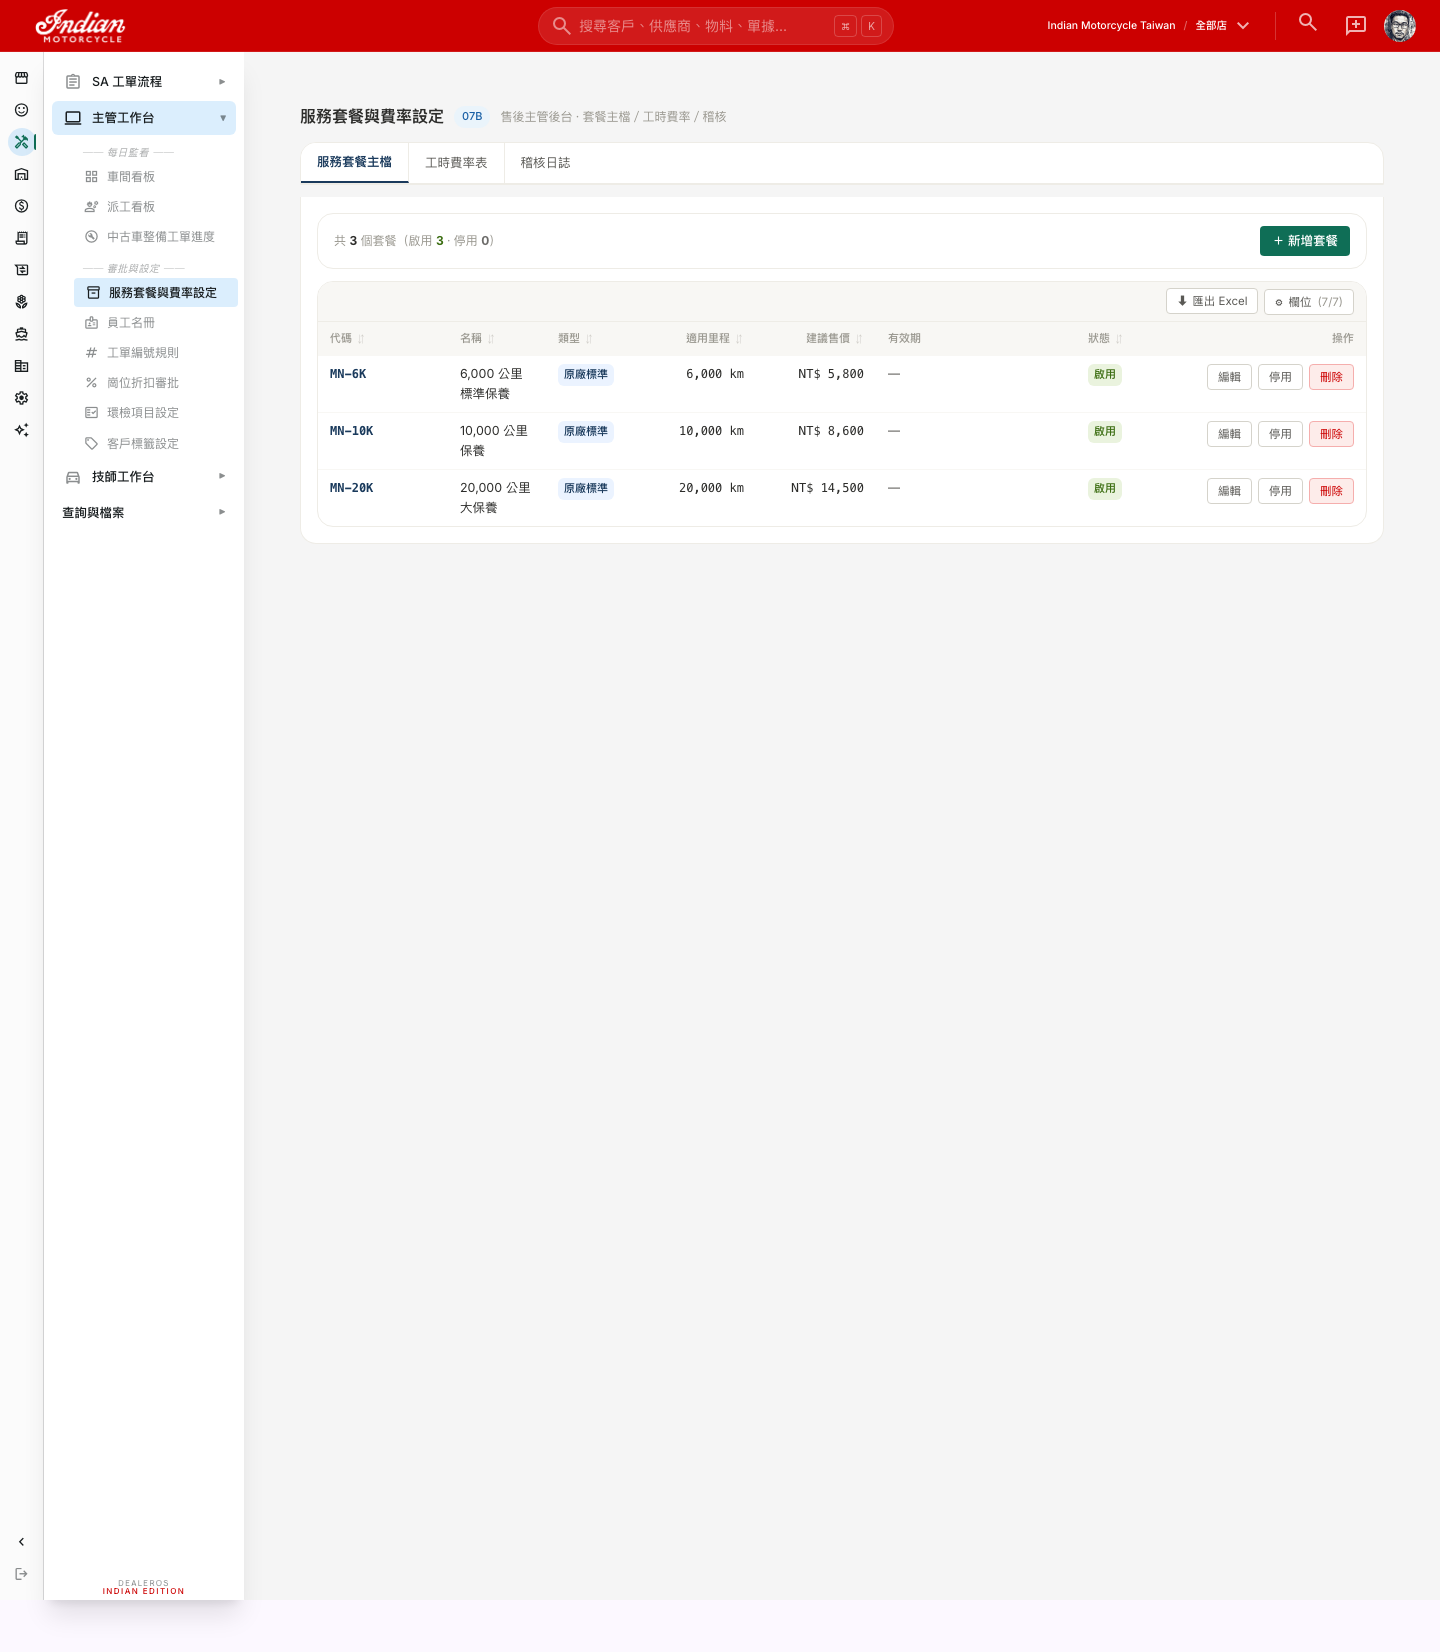
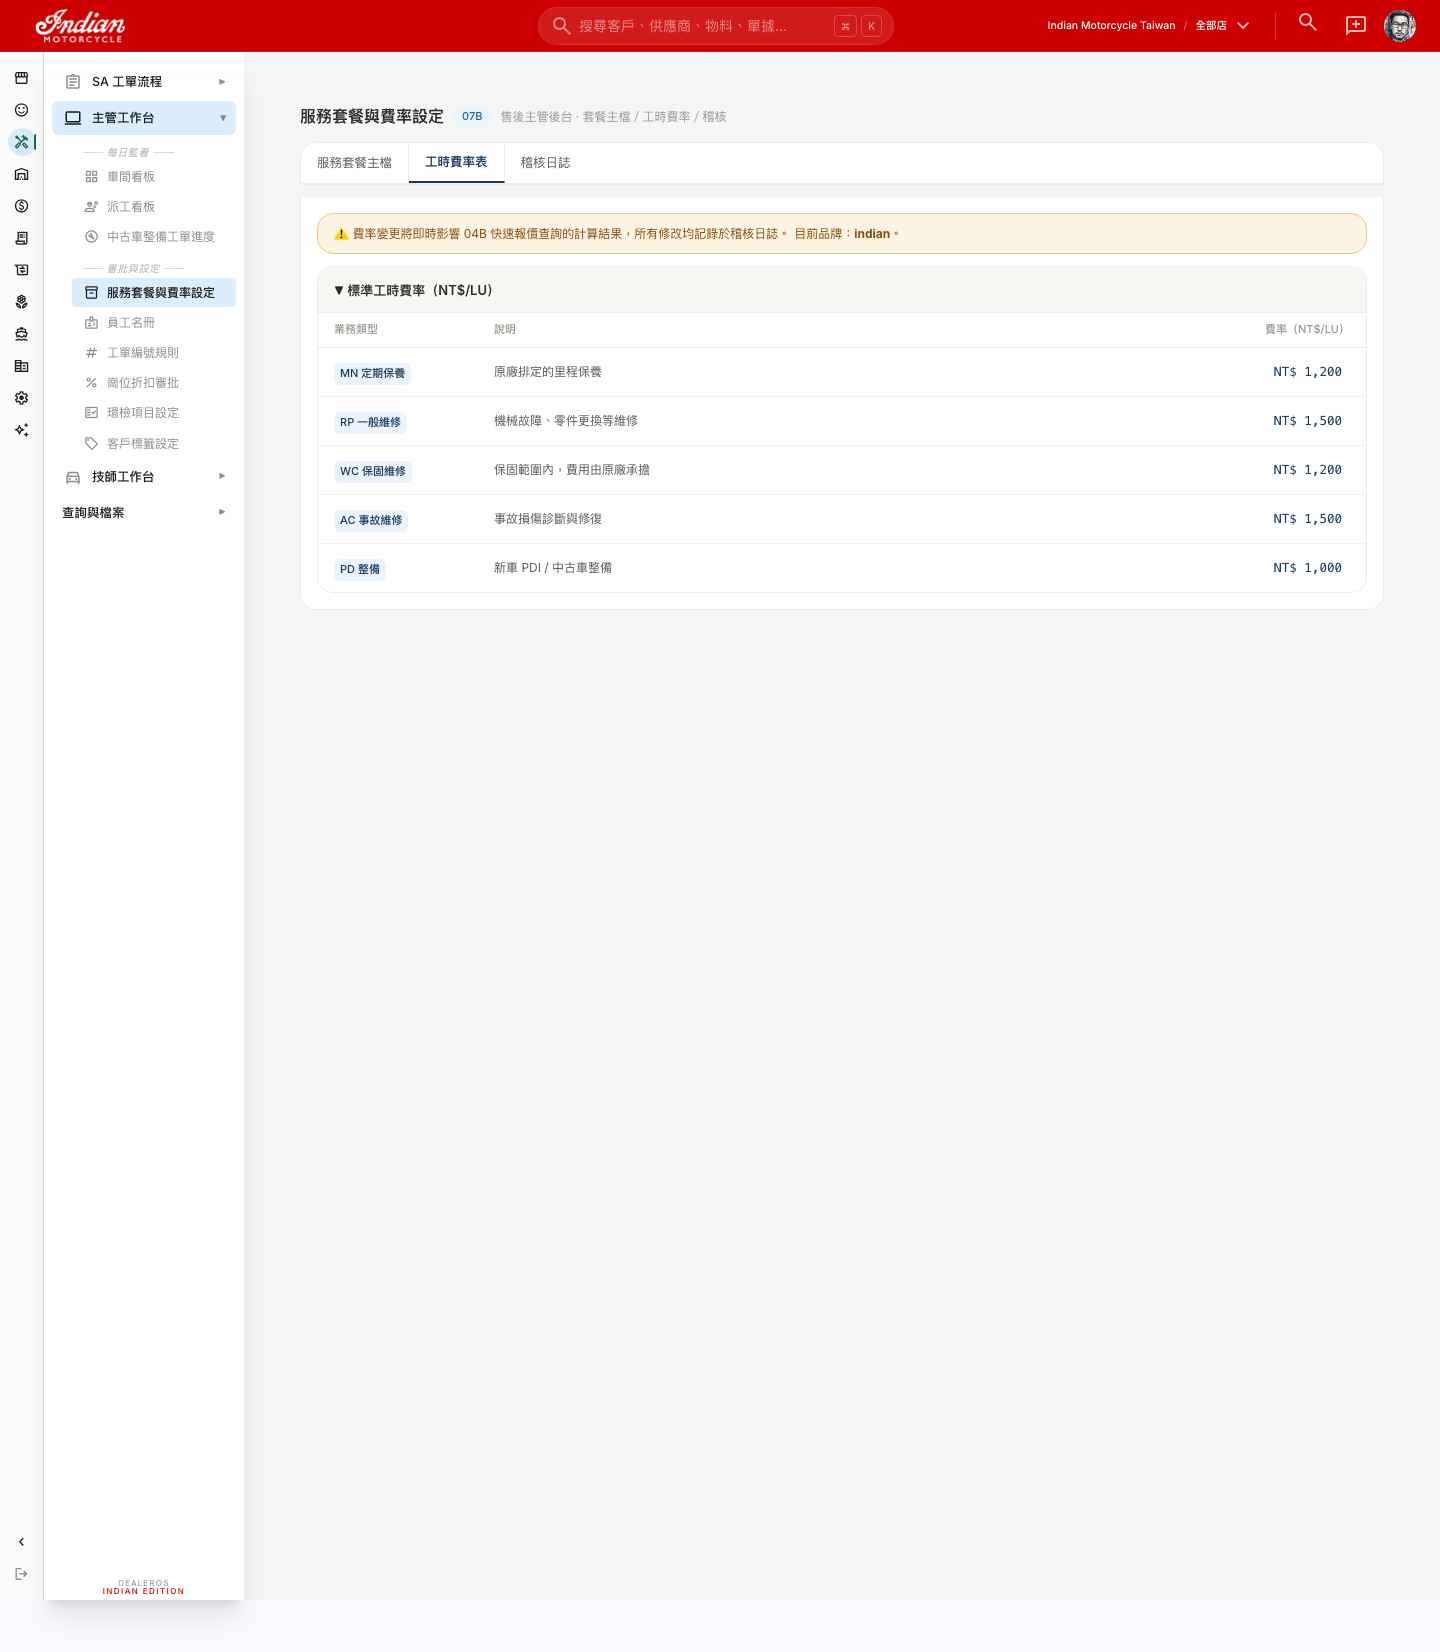
docs(russell): 回填 5 題回覆文件證據 + 重截 P1/P3b/P3c（DOM 複驗殘留歸零）

diff --git a/docs/20260613/04_DealerOS_回覆Russell_2026-06-13.md b/docs/20260613/04_DealerOS_回覆Russell_2026-06-13.md
@@ -2,7 +2,8 @@
 
 **日期：2026-06-13　｜　Partner & AI Agent → Russell Hung**
 **對應：`01_DealerOS_回覆Partner_2026-06-11.md`**
-**修補 commit：`8758bde`（已部署至正式站 https://dealeros.zeabur.app/）**
+**修補 commit：`8758bde` + `8d236a3`（已部署至正式站 https://dealeros.zeabur.app/）**
+**所有截圖均對部署後的正式站、以 Indian / DUCATI 帳號實拍，並以 DOM 可見性程式複驗殘留歸零**
 
 ---
 
@@ -24,15 +25,20 @@
    - 原本印 `完成{warrantySystem}保固登記` → 對 Indian 會印「完成 **Polaris** 保固登記」（Polaris 是母廠系統碼，海德生員工不認得）
    - 改為讀 `brandName`（`warrantyRegBrand`）→ 現在印「**完成 Indian Motorcycle 保固登記**」，正中你的規格要求
 2. **清除假資料**：Indian 有一筆交車單 `王大明 / Monster SP`（保固頁就是讀這筆才露出你截到的假資料）→ 已中性化為 `陳其邁 / Indian Scout Bobber`
+3. **殼層補刀**（`8d236a3`）：第一輪截圖後我們用 DOM 可見性程式複驗，又揪出兩處非品牌驅動的硬編碼殘留 → 已清：
+   - 交車流程步驟標題 `delivery-frame.tsx:60`：「DUCATI Warranty Terms — 交車登記表」→「保固條款 — 交車登記表」
+   - 確認事項清單 `delivery-constants.ts`：「已說明 www.ducati.com…」→「已說明原廠官方網站…」
 
 **截圖（Indian 帳號 · 正式站）**：`russell-evidence/P1_保固簽署頁_indian.png`
-- ✅ 標題不含「DUCATI」（顯示「Indian Motorcycle 保固條款」）
+- ✅ 標題顯示「**Indian Motorcycle 保固條款**」，不含「DUCATI」
 - ✅ 內文不含「Desmo 服務」「非 DUCATI 官方授權」
-- ✅ 顯示「交車後 10 天內完成 Indian Motorcycle 保固登記」提醒（`warranty_reg_days=10`）
+- ✅ 顯示「請於交車後 10 天內完成 **Indian Motorcycle** 保固登記」提醒（`warranty_reg_days=10`）
 - ✅ 無「王大明 / Monster SP」假資料
-- 程式驗證：DUCATI/Desmo/王大明/Monster 全文命中 = **[EV_P1_DUCATI]**；Indian Motorcycle 命中 = **[EV_P1_INDIAN]**
+- **DOM 可見性程式複驗：DUCATI/Desmo/王大明/Monster 可見文字節點 = 0**
 
-**改動行**：`warranty-sign-view.tsx:29,35,199`、`warranty-sign/page.tsx:31`
+**改動行**：`warranty-sign-view.tsx:29,35,199`、`warranty-sign/page.tsx:31`、`delivery-frame.tsx:58-60`、`delivery-constants.ts:199`
+
+> 誠實補充：交車流程更深層的 PDI / 36 項點交 checklist（DQS、MyDucati、Ducati Connect 等 DUCATI 工程專屬系統）仍含 DUCATI demo 內容；這些不在保固頁（RS05）上、屬另一輪 brand-aware 重構範圍，已列入後續。本題要求的保固簽署頁已徹底中性化。
 
 ---
 
@@ -79,7 +85,7 @@
 ### ① 試駕車款下拉（截圖 `P3a_試駕車款下拉_indian.png`）
 
 試乘表單（`test-rides-form.tsx:29,422-440`）已改吃 `vehicle_models`（依 active brand 過濾）。Indian 的 `vehicle_models` 只有 Chief / FTR / Scout，**DB 層就不存在 Ducati 車款**。
-- 程式抓取下拉實際選項 = **[EV_P3a_OPTIONS]**
+- 程式抓取下拉實際選項 = **`Chief Vintage` / `FTR Sport` / `Scout Bobber`**（全 Indian，無 Panigale/Monster）
 
 ### ② 庫存品項清單（截圖 `P3b_庫存品項_indian.png`）
 
@@ -93,12 +99,13 @@
 | E2E-SVC-021 | Desmo 汽門間隙校正 | 氣門間隙校正 |
 | OEM-ENG-003 | Desmodromic 進氣搖臂 | 進氣搖臂 |
 
-- 程式驗證：Indian 品項全文 Ducati/Panigale/Monster/Desmo 命中 = **[EV_P3b]**（目標 0）
+> 第一輪只清了 `name` 欄，DOM 複驗又抓到 `name_en` / `spec_description` 仍殘（Ducati Helmet Replica / Ducati 紅塗裝 / Monster 系列通用 / desmo 系統 / Panigale 適用），`8d236a3` 已連同清除。
+- **DOM 可見性程式複驗：Indian 品項清單 Ducati/Panigale/Monster/Desmo 可見文字 = 0**
 
 ### ③ 07B 工時費率表 Tab B（截圖 `P3c_工時費率表_indian.png`）
 
-費率表元件（`service-packages-board.tsx:518`）對 `has_desmo=false`（Indian）的品牌**會濾掉 Desmo Service 列**。Indian 帳號的 Tab B 不顯示任何 Desmo 字樣。
-- 程式驗證：Desmo 命中 = **[EV_P3c]**（目標 0）
+費率表元件（`service-packages-board.tsx:518`）對 `has_desmo=false`（Indian）的品牌**會濾掉 Desmo Service 列**。Indian 帳號的「工時費率表」Tab 只有 5 列：MN 定保 / RP 一般維修 / WC 保固維修 / AC 事故維修 / PD 整備，**無 Desmo 列**。
+- **DOM 可見性程式複驗：工時費率表 Desmo 可見文字 = 0**
 
 ---
 
@@ -106,7 +113,7 @@
 
 **三點全部確認 OK：**
 
-1. **DUCATI 帳號看到的是 DUCATI 資料**：ducati brand 有自有業務資料（30 客戶 / 15 車款 / 30 品項），RLS 按品牌隔離。截圖 `P4b_ducati業務資料_車型.png` 顯示車型主檔為 Panigale / Monster / Streetfighter 等 DUCATI 車款（命中 = **[EV_P4b]**），非 Indian 資料。
+1. **DUCATI 帳號看到的是 DUCATI 資料**：ducati brand 有自有業務資料（30 客戶 / 15 車款 / 30 品項），RLS 按品牌隔離。截圖 `P4b_ducati業務資料_車型.png` 顯示車型主檔為 Panigale / Monster / Streetfighter 等 DUCATI 車款（程式命中 24 處，**這是正確的——DUCATI 帳號本就該看到自己的車款**），非 Indian 資料。
 2. **nav_nodes 正確顯示 DUCATI 功能**：ducati 有 298 個 nav 節點 / 19 個一級模組（**非空**）。截圖 `P4a_ducati首頁目錄.png`。
 3. **RLS 對 DUCATI 生效**：6/4 RLS hardening 已對全 205 張表套 `user_has_brand(brand_id)` 政策（advisor 14→0），品牌隔離對 ducati 與 indian 對稱生效。
 
@@ -139,10 +146,10 @@
 
 ## 附：本次所有改動
 
-- **commit**：`8758bde`（tsc + eslint 全綠，已部署正式站）
-- **程式碼**：保固頁 ×2、org 架構 ×6（brand-config / org-settings / org-structure / action / page / board）
-- **資料庫**（已套正式站 Supabase）：brand_config.metadata.org_mode（indian=3/ducati=4）、5 品項改名、6 交車單中性化
+- **commit**：`8758bde`（org 架構 + 首輪中性化）+ `8d236a3`（殼層補刀）；皆 tsc + eslint 全綠、已部署正式站
+- **程式碼**：保固頁 ×2、org 架構 ×6（brand-config / org-settings / org-structure / action / page / board）、交車殼層 ×2（delivery-frame / delivery-constants）
+- **資料庫**（已套正式站 Supabase）：brand_config.metadata.org_mode（indian=3/ducati=4）、items 全文字欄中性化（name / name_en / spec_description）、6 交車單中性化
 - **HTML 黃金版**：5 支主檔 + 11 支附件入庫版控
-- **截圖證據**：`docs/20260613/russell-evidence/`（P1 / P2a / P2b / P3a / P3b / P3c / P4a / P4b）
+- **截圖證據**：`docs/20260613/russell-evidence/`（P1 / P2a / P2b / P3a / P3b / P3c / P4a / P4b，皆 DOM 可見性複驗殘留歸零）
 
 *Partner & AI Agent ｜ 2026-06-13*
